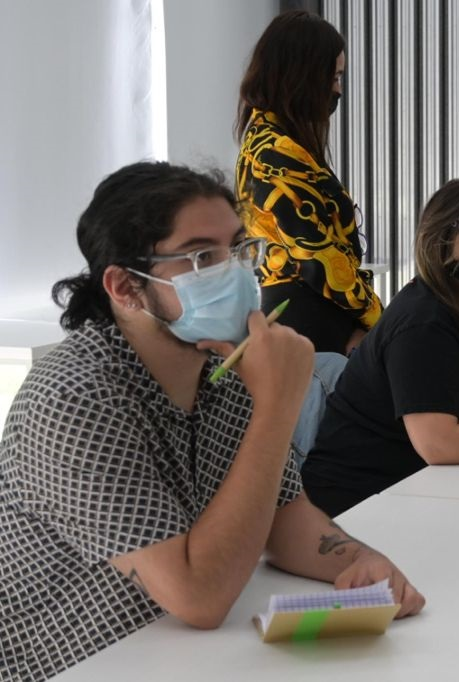
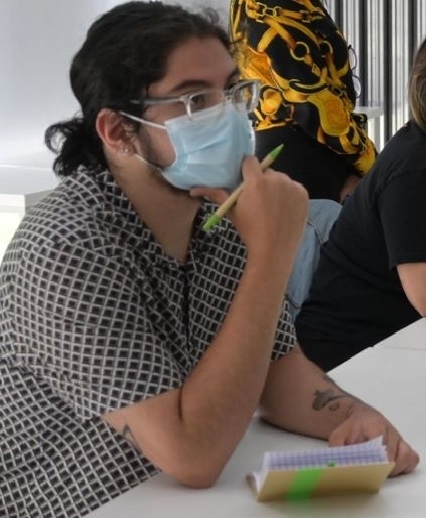
Changed photo and font size
edited photo and changed font sized from pixels to rems

diff --git a/static/main.css b/static/main.css
@@ -1,6 +1,7 @@
 /*mobile viewing*/
 
 body {
+    font-size: 1.2rem;
     margin: 0;
     padding: 0;
     font-family: Arial, Helvetica, sans-serif;
@@ -83,7 +84,7 @@ a {
     position: absolute;
     height: 65%;
     width: 65%;
-    margin: 175px 400px 300px 50px;
+    margin: 140px 200px 200px 50px;
     border: 3mm ridge #9ab973;
 
 }
@@ -97,6 +98,17 @@ a {
 
 /*DESKTOP CSS*/
 @media screen and (min-width: 768px) {
+
+    body {
+        font-size: 1.35rem;
+        margin: 0;
+        padding: 0;
+        font-family: Arial, Helvetica, sans-serif;
+        background-image: url(/flat-mountains.svg);
+        background-repeat: no-repeat;
+        background-attachment: fixed;
+        background-size: cover;
+    }
     
     .navbar {
         display: flex;
@@ -124,7 +136,7 @@ a {
     .my-pic {
         margin-left: 70px;
         position: absolute;
-        height: 80%;
+        height: 90%;
         width: 35%;
         border: 3mm ridge #9ab973;
     }

diff --git a/index.html b/index.html
@@ -4,7 +4,8 @@
     <head>
         <meta charset="UTF-8" />
         <meta http-equiv="X-UA-Compatible" content="IE=edge" />
-        <meta name="viewport" content="width=device-width, initial-scale=1.0" />
+        <meta name="viewport" content="width=device-width, initial-scale=1.0,maximum-scale=1,user-scalable=no" />
+        <meta name="HandheldFriendly" content="true">
         <link rel="stylesheet" href="/static/main.css" />
         <link rel="stylesheet" href="/font-awesome-4.7.0/css/font-awesome.min.css">
         <title>Anthony's Portfolio</title>
@@ -41,12 +42,11 @@
                     <h1>YOOOOO</h1>
                 </div>
         </div>
-        <br><br>
-        <br><br>
-
+        
         
 
         <script rel="text/javascript" src="static/index.js"></script>
     </body>
+    
 
 </html>
